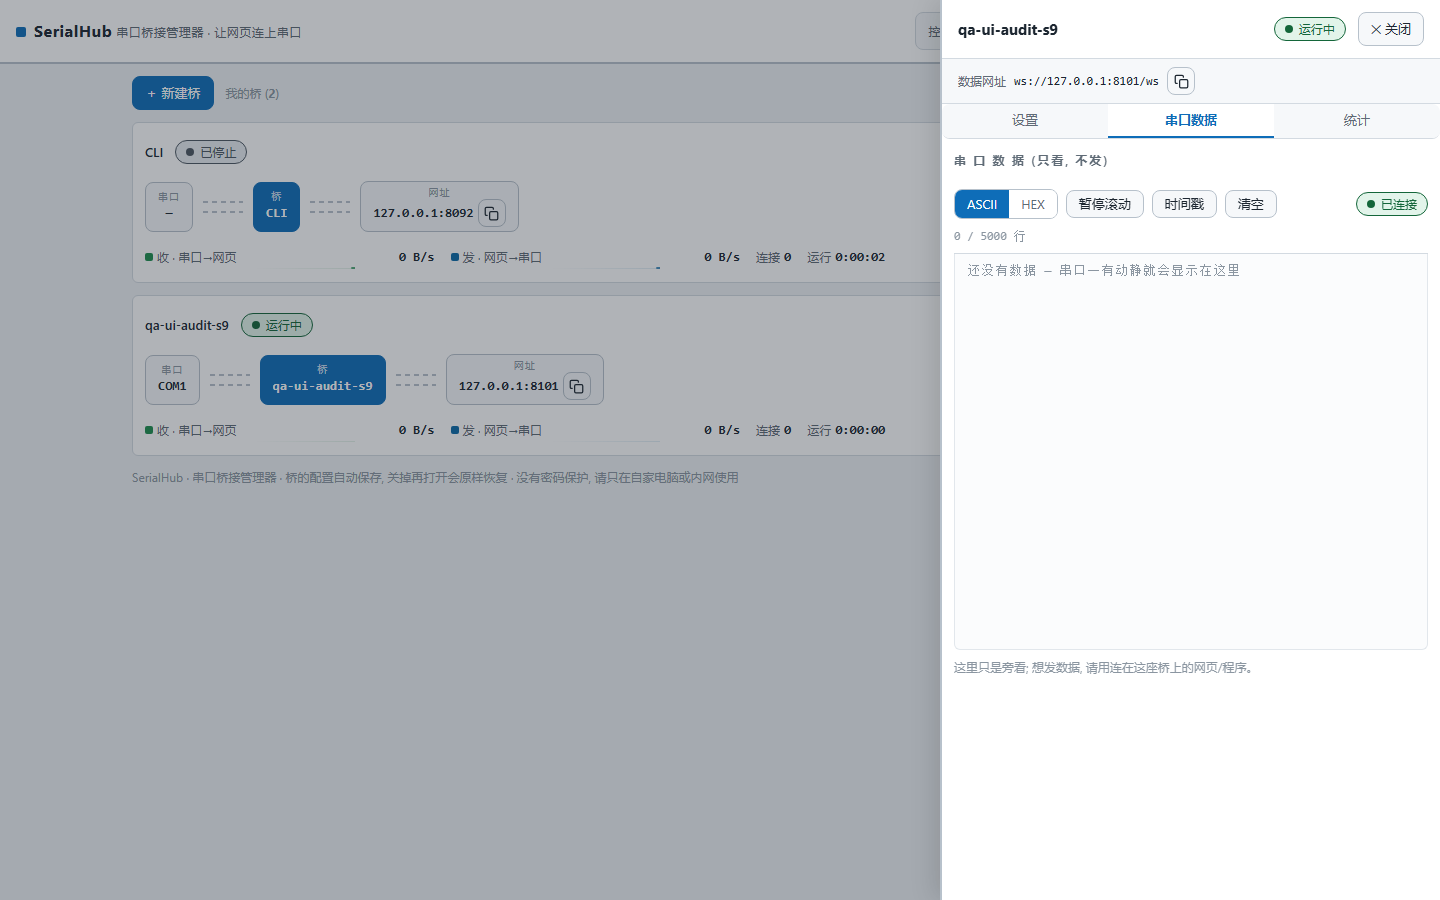
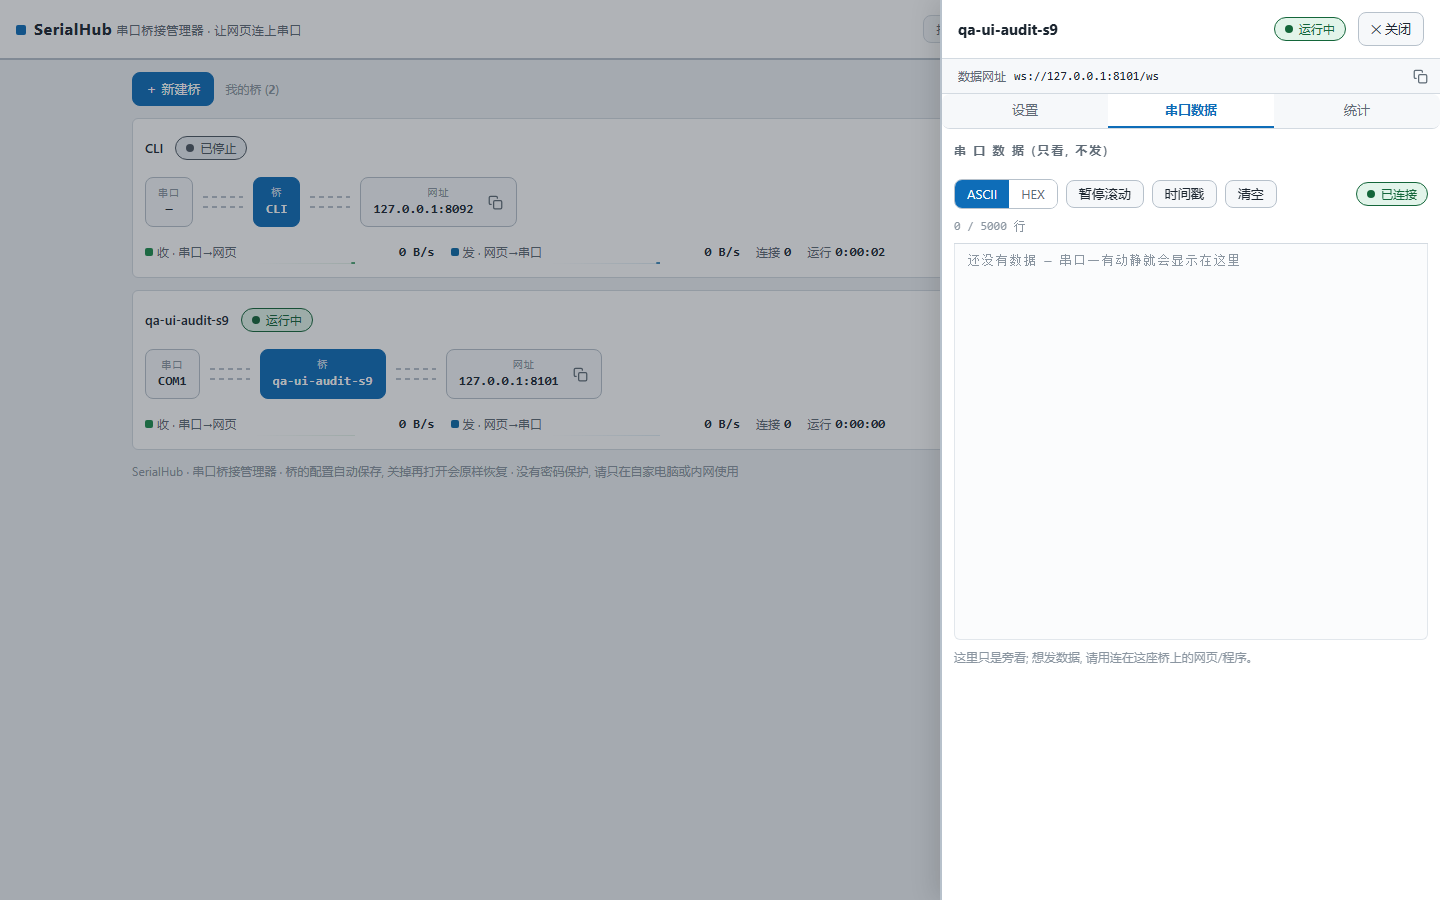
fix(ui): 复制图标内嵌化 —— 单一表面消除双层框 (用户反馈)
网址/命令等容器的复制图标改为右缘幽灵样式 (静默灰/hover 提亮),
容器是唯一的框; 像素审计 155 控件×7 轮 0 违例, 浅/深双主题回归过

diff --git a/ui/index.html b/ui/index.html
@@ -62,8 +62,8 @@ header .spacer{flex:1}
 .hdr-actions{display:flex;align-items:center;gap:12px;flex:none}
 /* 控制台网址块: 展示+复制; 网址可在「设置」里改 (FR-13), 改后本页自动跟随 */
 .urlchip{display:inline-flex;align-items:center;gap:8px;border:1px solid var(--border);
-  background:var(--panel-2);border-radius:var(--ctl-radius);padding:4px 8px 4px 12px;font-size:12px;color:var(--muted);
-  max-width:100%}
+  background:var(--panel-2);border-radius:var(--ctl-radius);padding:4px 36px 4px 12px;font-size:12px;color:var(--muted);
+  max-width:100%;position:relative}
 .urlchip code{font-family:var(--mono);font-size:12px;color:var(--ink);word-break:break-all}
 .quit-btn{border-color:var(--err);color:var(--err);background:var(--panel)}
 .quit-btn:hover:not(:disabled){background:var(--err-bg);border-color:var(--err);color:var(--err-ink)}
@@ -113,12 +113,12 @@ main{max-width:1200px;margin:0 auto;padding:var(--gap)}
 /* 流程图: 串口 ⇄ 桥 ⇄ 网址; 有流量时对应线段点亮并流动 */
 .flow{display:flex;align-items:center;gap:8px}
 .node{border:1px solid var(--border-strong);border-radius:var(--ctl-radius);background:var(--panel-2);
-  padding:4px 12px;text-align:center;min-width:0;flex:0 1 auto;
+  padding:4px 12px;text-align:center;min-width:0;flex:0 1 auto;position:relative;
   display:flex;flex-direction:column;align-items:center;justify-content:center;min-height:50px}
 .node .cap{display:block;font-size:10px;color:var(--faint);letter-spacing:1px;line-height:1.3}
 .node b{font-family:var(--mono);font-size:13px;font-weight:600;display:block;
   max-width:200px;overflow:hidden;text-overflow:ellipsis;white-space:nowrap}
-.node .nwrap{display:flex;align-items:center;gap:4px;justify-content:center;min-width:0}
+.node .nwrap{display:flex;align-items:center;gap:4px;justify-content:center;min-width:0;padding-right:30px}
 .node.bridge{background:var(--accent);border-color:var(--accent);color:var(--accent-ink);flex:0 0 auto}
 .node.bridge .cap{color:inherit;opacity:.75} /* 继承 .node.bridge 的 --accent-ink, 随主题自动成立, 无硬编码 */
 .wire{flex:none;width:44px;height:26px}
@@ -127,9 +127,15 @@ main{max-width:1200px;margin:0 auto;padding:var(--gap)}
 .wire line.on-tx{stroke:var(--tx);animation:dashL .5s linear infinite}
 @keyframes dashR{to{stroke-dashoffset:-9}}
 @keyframes dashL{to{stroke-dashoffset:9}}
-/* ADR-21①: 复制动作图标钮 (28px 紧凑档, 图标内联居中, 尺寸/圆角走 UI-1 令牌) */
-.icon-btn{flex:none;width:28px;height:var(--ctl-h-sm);padding:0}
-.icon-btn svg{width:15px;height:15px;display:block}
+/* ADR-21① + 波内小修 (单一表面原则): 复制点全站统一为「幽灵图标」——
+   absolute 内嵌在所在容器 (页头网址条 / 桥卡片网址节点 / 抽屉网址行 / 命令块) 右缘,
+   自身无框无底、不抬高容器, 静默态灰 (muted), hover 才转 accent;
+   容器是页面上唯一的框, 独立复制钮不再存在 */
+.copy-ghost{position:absolute;right:6px;top:50%;transform:translateY(-50%);
+  width:28px;height:var(--ctl-h-sm);padding:0;border-color:transparent;background:transparent;
+  color:var(--muted)}
+.copy-ghost:hover:not(:disabled){color:var(--accent);background:transparent;border-color:transparent}
+.copy-ghost svg{width:15px;height:15px;display:block}
 
 /* 速率行: 数字 + 最近 60s 火花线 */
 .rates{display:flex;align-items:center;gap:8px 16px;flex-wrap:wrap;font-size:12px;color:var(--muted)}
@@ -165,7 +171,7 @@ main{max-width:1200px;margin:0 auto;padding:var(--gap)}
 button{background:var(--panel-2);border:1px solid var(--border-strong);border-radius:var(--ctl-radius);
   height:var(--ctl-h);padding:0 var(--ctl-px);font-size:var(--ctl-fs);color:var(--ink);
   display:inline-flex;align-items:center;justify-content:center;white-space:nowrap}
-/* 紧凑档 (--ctl-h-sm): 仅工具条/标题条/侦听工具条内小按钮 (复制图标钮的高度在 .icon-btn 自带) */
+/* 紧凑档 (--ctl-h-sm): 仅工具条/标题条/侦听工具条内小按钮 (幽灵复制钮高度在 .copy-ghost 自带) */
 .quit-btn,.x-btn,.seg button,.term-toolbar>button{height:var(--ctl-h-sm)}
 /* 波3 (UX P2-1): 页头钮统一标准档 34 —— 新钮与原住民同排同高, 不再有"两代按钮" */
 #btnQuit{height:var(--ctl-h)}
@@ -178,6 +184,8 @@ button.danger.armed{background:var(--err);border-color:var(--err);color:var(--er
 .field{display:flex;align-items:center;gap:8px;margin-bottom:8px}
 .field>label{width:72px;flex:none;color:var(--muted);font-size:12px;white-space:nowrap}
 .field .ctl{flex:1;display:flex;align-items:center;gap:8px;min-width:0}
+.has-copy{position:relative} /* 单一表面: 幽灵复制钮的定位容器 */
+#cfDataUrl{padding-right:30px}
 .field .ctl button{white-space:nowrap}
 .field .ctl select{flex:1}
 .field .ctl input[type=text]{flex:1}
@@ -219,6 +227,8 @@ input[type=number]{width:100%}
 .equiv summary{cursor:pointer;letter-spacing:1px;font-size:11px;color:var(--faint)}
 .equiv summary:hover{color:var(--accent)}
 .equiv code{display:block;font-family:var(--mono);font-size:12px;word-break:break-all;color:var(--ink)}
+.cmd-line{position:relative} /* 命令块: 幽灵复制钮内嵌在等宽文本面右缘 */
+#cfEquiv{padding-right:32px}
 
 /* 统计卡 */
 .stats{display:grid;grid-template-columns:repeat(3,1fr);gap:8px;margin-top:12px}
@@ -270,8 +280,8 @@ dialog::backdrop{background:rgba(28,38,48,.4)}
 #drawer[hidden],#mask[hidden]{display:none}
 .dr-head{display:flex;align-items:center;gap:12px;padding:12px 16px;border-bottom:1px solid var(--border)}
 .dr-head h2{font-size:15px;margin:0;min-width:0;overflow:hidden;text-overflow:ellipsis;white-space:nowrap;flex:1}
-.dr-dataurl{display:flex;align-items:center;gap:8px;padding:8px 16px;border-bottom:1px solid var(--border);
-  background:var(--panel-2);font-size:12px;color:var(--muted);flex-wrap:wrap}
+.dr-dataurl{display:flex;align-items:center;gap:8px;padding:8px 44px 8px 16px;position:relative;
+  border-bottom:1px solid var(--border);background:var(--panel-2);font-size:12px;color:var(--muted);flex-wrap:wrap}
 .dr-dataurl code{font-family:var(--mono);font-size:12px;color:var(--ink);word-break:break-all}
 .dr-tabs{display:flex;border-bottom:1px solid var(--border);border-radius:var(--ctl-radius);overflow:hidden}
 .dr-tabs button{flex:1;border:none;border-radius:0;background:var(--panel-2);height:var(--ctl-h);padding:0 4px;
@@ -323,7 +333,7 @@ footer{max-width:1200px;margin:0 auto;padding:0 var(--gap) 16px;color:var(--fain
   <span class="spacer"></span>
   <span class="urlchip" title="管理台网址; 各桥有自己的数据网址, 程序请连各桥的">
     <span>控制台网址</span><code id="consoleUrl">…</code>
-    <button id="btnCopyUrl" type="button" class="icon-btn" title="复制" aria-label="复制控制台网址"></button>
+    <button id="btnCopyUrl" type="button" class="copy-ghost" title="复制" aria-label="复制控制台网址"></button>
   </span>
   <span class="hdr-actions">
     <button id="btnOpenPanel" type="button" title="在系统默认浏览器打开管理台; 弹不出来时会自动复制网址">打开面板</button>
@@ -464,7 +474,7 @@ footer{max-width:1200px;margin:0 auto;padding:0 var(--gap) 16px;color:var(--fain
         <line class="wrx" x1="2" y1="8" x2="42" y2="8"/><line class="wtx" x1="2" y1="18" x2="42" y2="18"/>
       </svg>
       <div class="node net" title="数据网址: 网页/程序连接这座桥用"><span class="cap">网址</span>
-        <span class="nwrap"><b class="n-listen"></b><button type="button" class="icon-btn" title="复制" aria-label="复制数据网址给网页/程序"></button></span></div>
+        <span class="nwrap"><b class="n-listen"></b><button type="button" class="copy-ghost" title="复制" aria-label="复制数据网址给网页/程序"></button></span></div>
     </div>
     <div class="rates">
       <span class="rgrp"><span class="rlab"><span class="rdot"></span>收 · 串口→网页</span>
@@ -489,7 +499,7 @@ footer{max-width:1200px;margin:0 auto;padding:0 var(--gap) 16px;color:var(--fain
     <button id="drClose" type="button" title="关闭抽屉 (Esc)">✕ 关闭</button>
   </div>
   <div class="dr-dataurl">数据网址 <code id="drDataUrl">—</code>
-    <button id="btnDrCopyUrl" type="button" class="icon-btn" title="复制" aria-label="复制数据网址给网页/程序"></button>
+    <button id="btnDrCopyUrl" type="button" class="copy-ghost" title="复制" aria-label="复制数据网址给网页/程序"></button>
   </div>
   <div class="dr-tabs" role="tablist" aria-label="桥管理" data-strip>
     <button id="tb-cfg" type="button" role="tab" aria-selected="true" aria-controls="pan-cfg">设置</button>
@@ -545,19 +555,19 @@ footer{max-width:1200px;margin:0 auto;padding:0 var(--gap) 16px;color:var(--fain
       <div class="send-hint">开着: 串口断了会自动连回来; 关掉: 串口断了就直接停止, 需要手动重新打开</div>
       <div class="field">
         <label>数据网址</label>
-        <div class="ctl"><code id="cfDataUrl"></code>
-          <button id="btnCfCopyUrl" type="button" class="icon-btn" title="复制" aria-label="复制数据网址给网页/程序"></button></div>
+        <div class="ctl has-copy"><code id="cfDataUrl"></code>
+          <button id="btnCfCopyUrl" type="button" class="copy-ghost" title="复制" aria-label="复制数据网址给网页/程序"></button></div>
       </div>
       <div class="send-hint">网页/程序打开「数据网址」就能连到这个串口; 同一串口同时只归一座桥</div>
       <div id="cfLockHint" class="lock-hint"></div>
       <div id="cfErr" class="form-err"></div>
       <details class="equiv">
         <summary>命令行写法 (给脚本用)</summary>
-        <code id="cfEquiv"></code>
+        <div class="cmd-line"><code id="cfEquiv"></code>
+          <button id="btnCfCopyCmd" type="button" class="copy-ghost" title="复制" aria-label="复制命令行写法"></button></div>
         <div class="send-hint">在命令行里跑这条, 效果和这座桥完全一样; 不想弹窗口就加 --headless</div>
       </details>
       <div class="actions" style="margin-top:12px;display:flex;align-items:center;gap:8px">
-        <button id="btnCfCopyCmd" type="button" class="icon-btn" title="复制" aria-label="复制命令行写法"></button>
         <button id="btnCfSave" type="button" class="primary" title="保存这座桥的设置">保 存</button>
       </div>
     </section>
@@ -732,14 +742,14 @@ function showCopyTip(btn, ok) {
   copyTipTimer = setTimeout(() => tip.classList.remove("show"), 1500);
 }
 
-/* 复制图标 (两叠圆角矩形, 内联 SVG 不引外部库): 单源注入全部图标钮, 模板卡内那颗一并盖 */
+/* 复制图标 (两叠圆角矩形, 内联 SVG 不引外部库): 单源注入全部幽灵复制钮, 模板卡内那颗一并盖 */
 const COPY_ICON = '<svg viewBox="0 0 24 24" fill="none" stroke="currentColor" stroke-width="2" '
   + 'stroke-linecap="round" stroke-linejoin="round" aria-hidden="true">'
   + '<rect x="9" y="9" width="13" height="13" rx="2" ry="2"/>'
   + '<path d="M5 15H4a2 2 0 0 1-2-2V4a2 2 0 0 1 2-2h9a2 2 0 0 1 2 2v1"/></svg>';
-for (const b of document.querySelectorAll(".icon-btn")) b.innerHTML = COPY_ICON;
+for (const b of document.querySelectorAll(".copy-ghost")) b.innerHTML = COPY_ICON;
 {
-  const tplBtn = $("tplCard").content.querySelector(".icon-btn");
+  const tplBtn = $("tplCard").content.querySelector(".copy-ghost");
   if (tplBtn) tplBtn.innerHTML = COPY_ICON;
 }
 
@@ -790,7 +800,7 @@ function buildCard(id) {
     serial: root.querySelector(".n-serial"),
     nName: root.querySelector(".n-name"),
     listen: root.querySelector(".n-listen"),
-    copyUrl: root.querySelector(".icon-btn"),
+    copyUrl: root.querySelector(".copy-ghost"),
     wires: [...root.querySelectorAll(".wire")],
     vRx: root.querySelector(".v-rx"),
     vTx: root.querySelector(".v-tx"),

diff --git a/docs/team/reports/dev-sprint9-ui.md b/docs/team/reports/dev-sprint9-ui.md
@@ -77,3 +77,25 @@
 - 真壳内手验「打开面板」: 需 302 的 `/api/open-console` 联调 (本报告 S7/S8 为 mock 断言);
   深色主题下气泡为浅底深字 (ink/bg 反色), 已在 R7 深色轮审计口径内核过控件尺度。
 - 气泡在顶栏触发时会自动落到按钮下方 (上方放不下), 属设计行为非 bug。
+
+## §修复 (波内小修): 复制点改「幽灵图标」单一表面
+
+- **用户反馈**: 桥卡片网址处复制图标钮仍是独立描边框, 与网址容器并排成双层框。
+- **改法 (单一表面原则, 全站复制点统一)**: 5 颗复制钮全部改为 `.copy-ghost` 幽灵图标 ——
+  `position:absolute` 内嵌在所在容器右缘 (top:50% 居中), 自身 `border-color/background:
+  transparent` (无框无底), 静默态 `--muted` 灰, hover 才转 `--accent`; **容器是页面上唯一的框**:
+  页头网址条 (padding-right 36 让位) / 桥卡片网址节点 (nwrap padding-right 30) /
+  抽屉数据网址行 (padding-right 44) / 抽屉设置页数据网址 (ctl 加 `has-copy` 定位) /
+  命令块 (code 包进 `.cmd-line`, padding-right 32)。独立图标钮形态已无存量场景。
+- **点击区/高度**: 幽灵钮 28×28 (≥28px 点击区), absolute 不抬高容器 (urlchip 实测高 28 < 34);
+  气泡逻辑零改动。
+- **像素审计口径**: 幽灵钮高 28 ∈ {28,34}、圆角 8 (border 透明但 radius 仍 8) —— 官方工具
+  **无需豁免逻辑, 口径不放松**, 官方跑 + 新 UI 同口径补充跑均 **155 控件 × 7 轮 PASS**
+  (幽灵钮 R1 两颗 / R3 六颗 / R7 深色三颗全入径)。
+- **自验 (mock, 16/16 PASS)**: 幽灵静默态 (边框/底全透明 + muted 灰 + 28/8 + SVG 居中,
+  浅深双主题各验) / hover 转 accent (浅深各验) / 四处截图静默+hover / 气泡贴钮·1.5s 自散·
+  连点不堆叠 / 壳两分支+非壳回归 / 720px 无溢出, 预期外 JS 错误 0。
+- 截图 (本目录): `ghost-light-card.png` · `ghost-light-header-hover.png` ·
+  `ghost-light-drawer-hover.png` · `ghost-light-cmd-hover.png` · `ghost-dark-card.png` ·
+  `ghost-dark-header-hover.png` · `ghost-dark-drawer.png` · `ghost-dark-cmd-hover.png`;
+  `pixel-audit-1..7-*.png` 已更新为幽灵版新 UI 七轮。

diff --git a/CHANGELOG.md b/CHANGELOG.md
@@ -1,5 +1,11 @@
 # SerialHub 更新日志
 
+## v1.5.1 — 2026-09-14
+
+### 改进
+- 复制图标内嵌化: 网址/命令等容器为唯一表面, 复制图标为右缘幽灵图标
+  (静默灰, hover 提亮), 消除"框上叠框"的双层视觉 (用户反馈)
+
 ## v1.5.0 — 2026-09-14
 
 ### 改进
